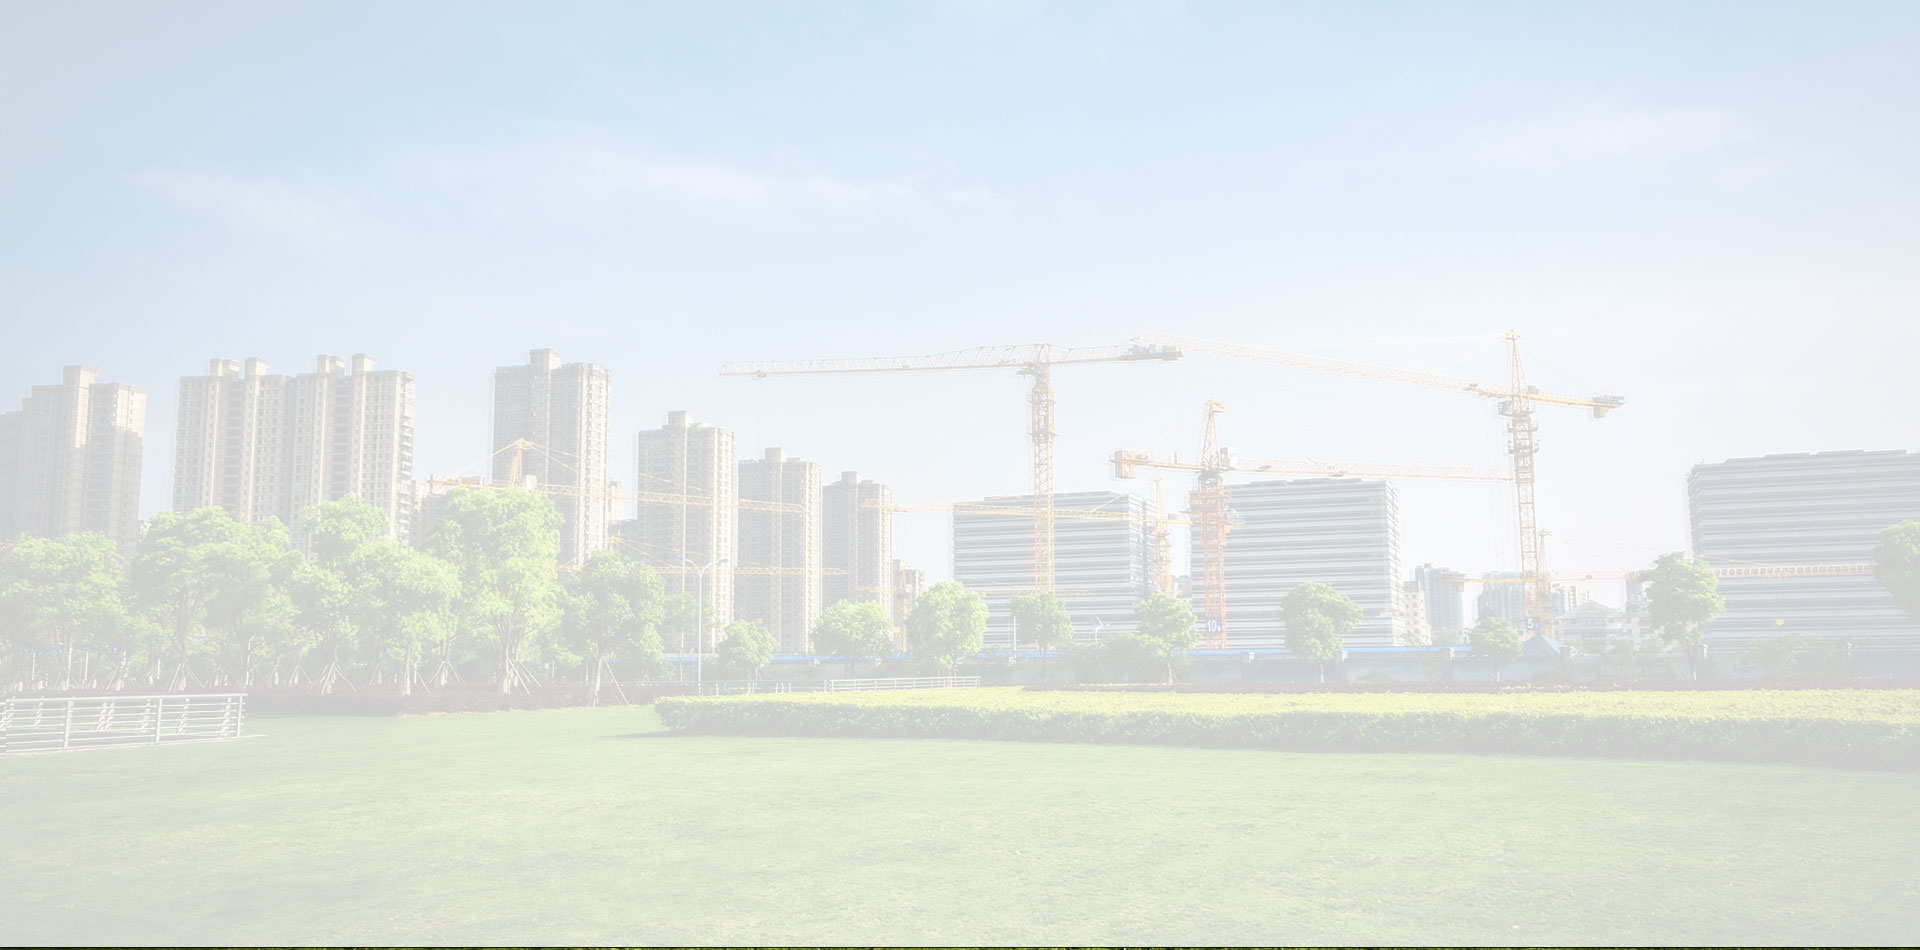
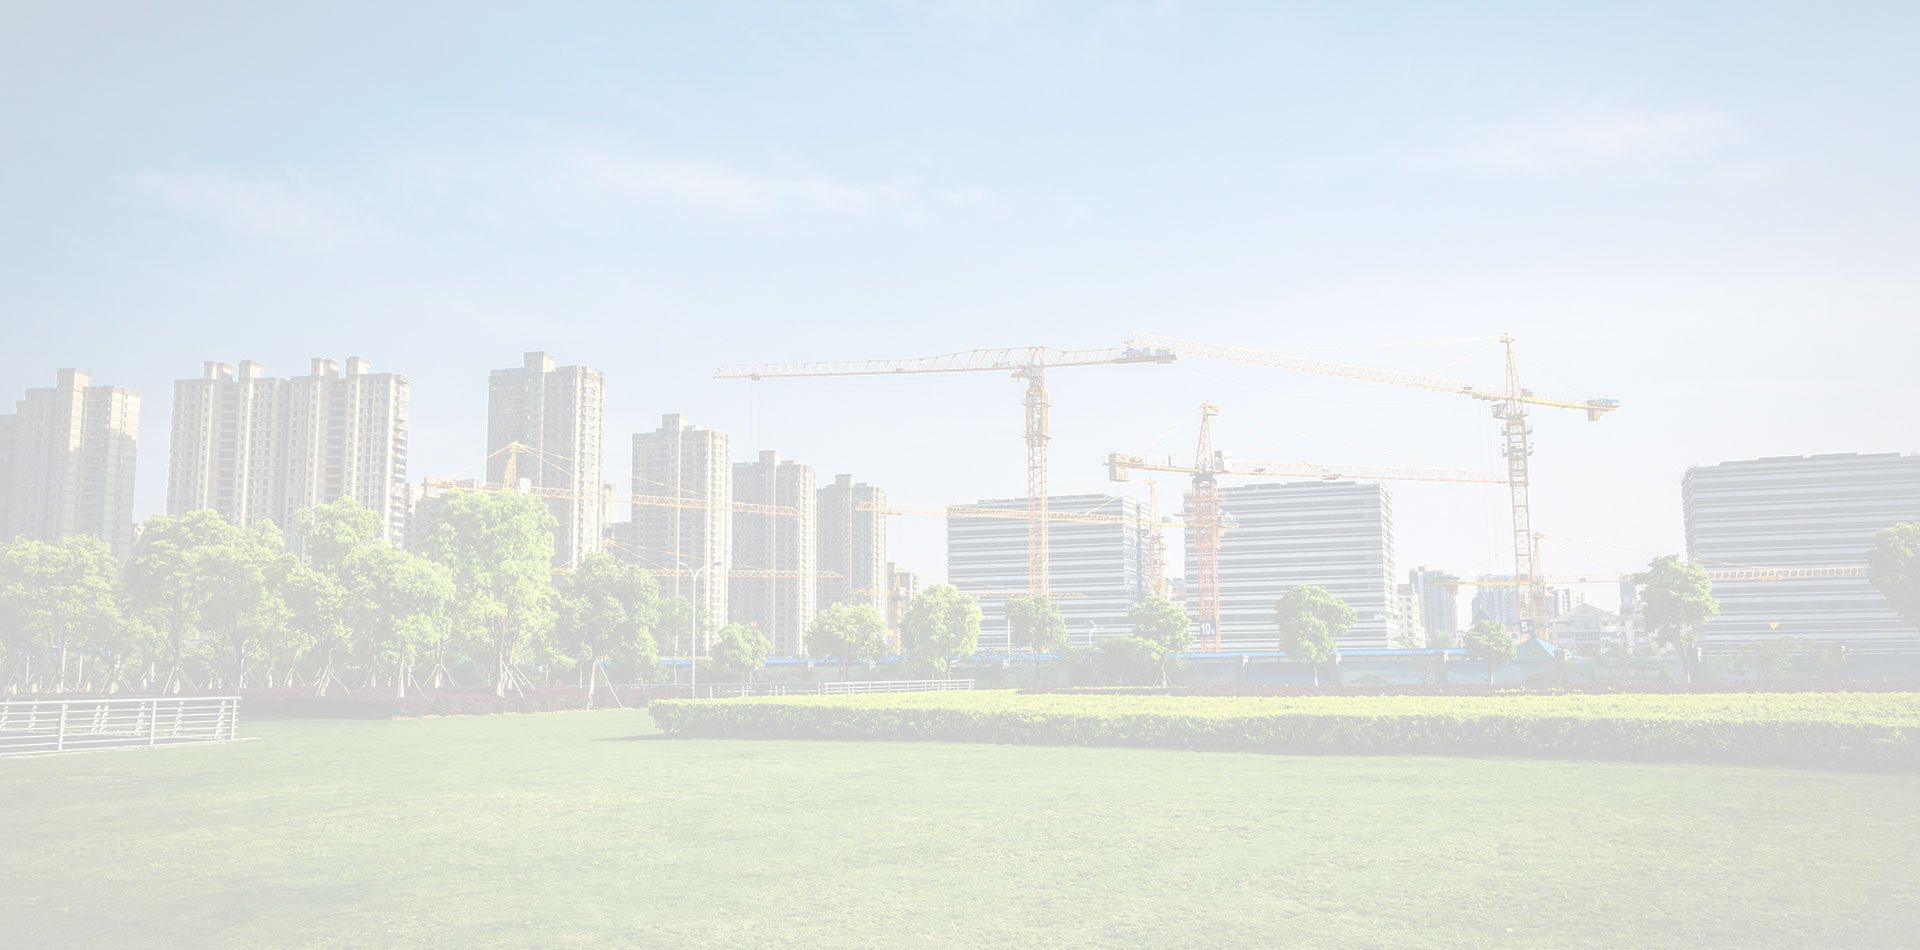
20/10/2024

diff --git a/static/css/style.css b/static/css/style.css
@@ -343,7 +343,7 @@ h6{
 	display: inline-block;
 	font-size: 16px;
 	line-height: 30px;
-	color: #ffffff;
+	color: #e6a251;
 	padding: 12px 32px 12px;
 	font-weight: 400;
 	overflow: hidden;
@@ -351,7 +351,7 @@ h6{
 	letter-spacing:1px;
 	border-radius:5px;
 	text-transform: capitalize;
-	border:2px solid #ffffff;
+	border:2px solid #e6a251;
 	
 }
 
@@ -3024,14 +3024,14 @@ img{
 }
 
 .main-slider .tp-dottedoverlay{
-	background: url(../images/background/background-brand-2000.png) ,linear-gradient(to top, transparent 40%, #fff 100%) !important;	
+	background: url(../images/background/background-brand-2000.png) ,linear-gradient(to top, #ffffff50, #ffffff70 100%) !important;	
 	background-size: cover !important;
 	background-position: 50% 50%;
 }
 
-@media (max-width: 768px) {
+@media (max-width: 992px) {
 	.main-slider .tp-dottedoverlay{
-		background: url(../images/background/background-brand-1200x900.png) ,linear-gradient(to top, transparent 40%, #fff 100%) !important;	
+		background: url(../images/background/background-brand-1200x900.png) ,linear-gradient(to left, #ffffff70, #ffffffe3 100%) !important;	
 		background-size: cover !important;
 		background-position: 50% 50%;
 	}
@@ -3039,7 +3039,7 @@ img{
 
 .main-slider .title{
 	position: relative;
-    color: #f99b1a;
+    color: #059447;
     font-weight: 600;
     font-size: 24px;
     line-height: 1.4em;
@@ -3058,7 +3058,7 @@ img{
 
 .main-slider .text{
 	position: relative;
-    color: #059447;
+    color: #e6a251;
     font-size: 20px;
     line-height: 1.8em;
     margin-bottom: 40px;
